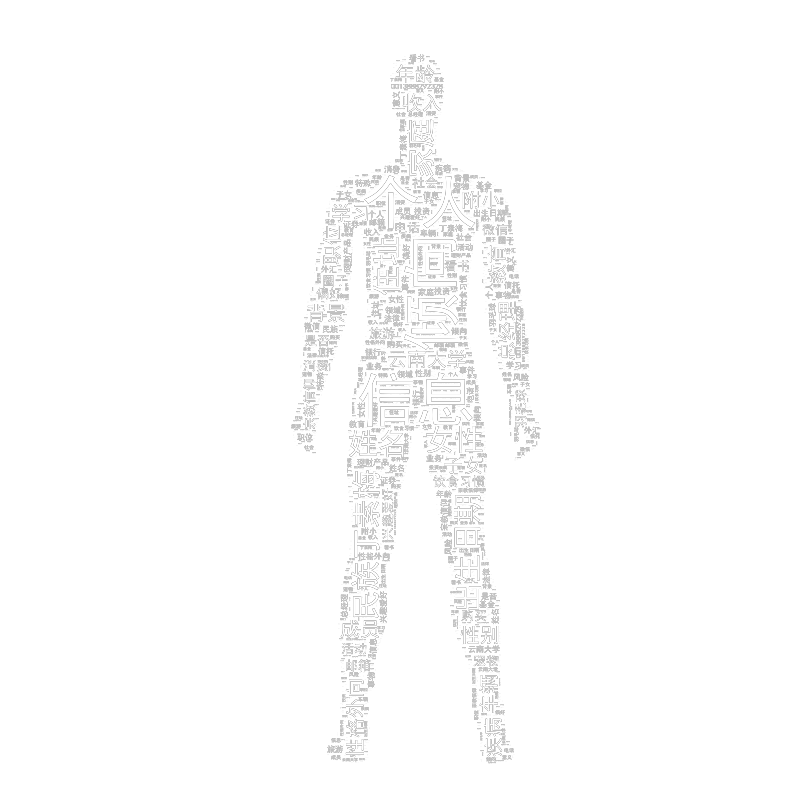
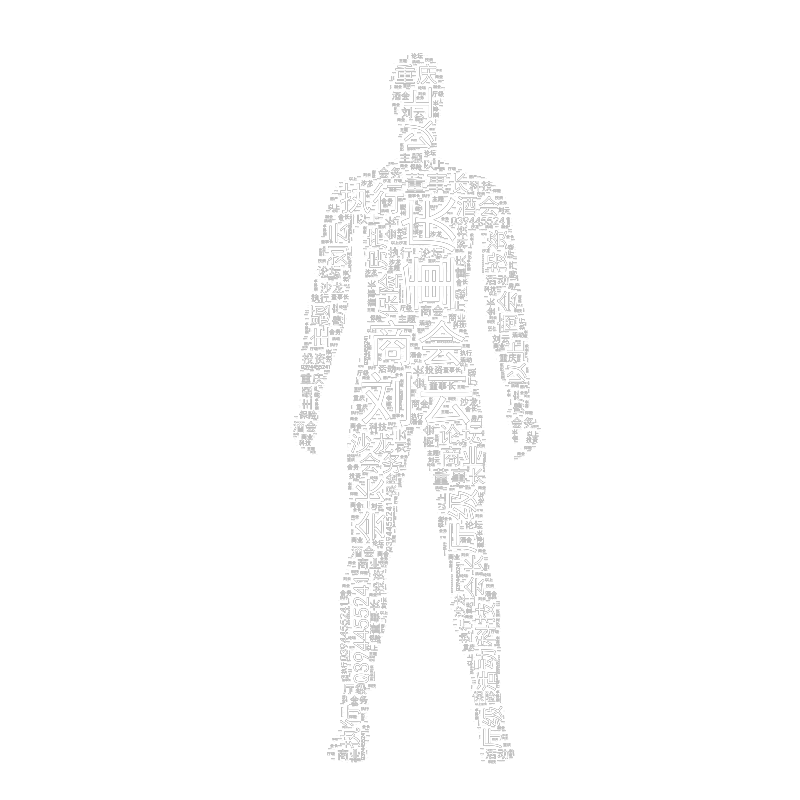
用户画像

Changed region(s): [[0.3438, 0.0625, 0.6875, 0.9688]]

diff --git a/messageDB.py b/messageDB.py
@@ -10,21 +10,56 @@ class message:
         self._db = db       # 私有属性
         self.charset = charset
 
-    def conn(self):
+    def conn(self, user_id):
         connection = pymysql.connect(host=self.host, user=self.user, password=self._password, db=self._db, charset=self.charset, cursorclass=pymysql.cursors.DictCursor)
+        values = ""
+
+        # 剔除无效值
+        value_Wipe = ['0', '1', '2', '3', '4', '5', '6', '7', '8', '9', '[]', None, '', '无', 1, 2]
 
         try:
             with connection.cursor() as cursor:
-                sql = "select `user_attribute_value`.`value` from `user_attribute_value` left join `user_attribute` on `user_attribute_value`.`user_attribute_id` = `user_attribute`.`id` where (`user_attribute_value`.`user_id` = '1' and `user_attribute`.`group` = 'user' and `user_attribute`.`status` = 1) order by `sort` asc"
-                cursor.execute(sql)
-                result = cursor.fetchall()
-                for item in result:
-                    print(item.values())
+                # 查询user信息
+                sql_user = "SELECT real_name, address_now, sex, detail_address FROM user WHERE user_id=%s"
+
+                # 查询user_attribute_value信息
+                sql_attribute = "select `user_attribute_value`.`value` from `user_attribute_value` left join `user_attribute` on `user_attribute_value`.`user_attribute_id` = `user_attribute`.`id` where (`user_attribute_value`.`user_id` =%s and `user_attribute`.`group` = 'user' and `user_attribute`.`status` = 1) order by `sort` asc"
+
+                if cursor.execute(sql_user, user_id) > 0:  # 查询成功
+
+                    for items in cursor.fetchall():
+
+                        for item in items:
+                           if items[item] not in value_Wipe:
+                               values += items[item]
+
+                        if items['sex'] == 1:
+                            sex_n = "男"
+                            values += sex_n
+                        elif items['sex'] == 2:
+                            sex_w = "女"
+                            values += sex_w
+
+                    if cursor.execute(sql_attribute, user_id) > 0:  # 执行查询操作
+                        resultst = cursor.fetchall()
+                        resultst.pop(-1)
+
+                        for item in resultst:  # 查询结果
+                             # 数据处理
+                             if item['value'] not in value_Wipe and (item['value'][0] != '[' and item['value'][-1] != ']'):
+                                 values += item['value'].strip()
+
+                    return values
+
+                else:
+
+                    return -1  # 没有用户返回-1
 
         finally:
             connection.close()
 
 
-mes = message('localhost', 'root', 'root', 'userdb', 'utf8mb4')
+# mess_text = message('localhost', 'root', 'root', 'userdb', 'utf8mb4').conn(user_id=3)  # 调用messageDB获取会员信息
 
-mes.conn()
+
+

diff --git a/maker_portrayal.py b/maker_portrayal.py
@@ -1,0 +1,28 @@
+from wordcloud import WordCloud, STOPWORDS, ImageColorGenerator
+import numpy as np
+from PIL import Image
+import matplotlib.pyplot as plt
+import jieba
+
+
+class maker_pl:
+
+    def maker_png(mess_text, user_id):
+        cut_text = jieba.cut(mess_text, cut_all=False)
+        result = " ".join(cut_text)
+
+        # 轮廓图片获取
+        mask = np.array(Image.open(r'./static/bottom_model.png'))
+
+        # #333943
+        word_cloud = WordCloud(font_path='simhei.ttf', background_color=None, max_words=2000, repeat=True, mask=mask,min_font_size=1, mode='RGBA')
+        # import ipdb;ipdb.set_trace()
+        word_cloud.generate(result)
+
+        backgroud_Image = plt.imread(r'./static/painting.jpg')
+        mg_colors = ImageColorGenerator(backgroud_Image)
+        word_cloud.recolor(color_func=mg_colors)
+        word_cloud.to_file(r'./static/user_img/user_id{0}.png'.format(user_id))
+
+
+

diff --git a/portrayal.py b/portrayal.py
@@ -1,17 +1,27 @@
 # -*-coding:utf-8 -*-
+from messageDB import message
+from maker_portrayal import maker_pl
+
 from flask import Flask, url_for
 
 app = Flask(__name__)
 
 
-@app.route('/')
-def index():
+@app.route('/user/<int:user_id>')
+def index(user_id):
 
+    mess_text = message('localhost', 'root', 'root', 'userdb', 'utf8mb4').conn(user_id)  # 调用messageDB获取会员信息
 
+    # 生成图片
+    maker_pl.maker_png(mess_text, user_id)
 
-    return url_for('static', filename='mask_wordcloud1.png')
+    return 'static/user_img/user_id%d.png' %user_id
 
+@app.errorhandler(404)
+def page_not_found(error):
+
+    return "没有此页面"
 
 
 if __name__ == "__main__":
-    app.run()
+    app.run(host='0.0.0.0', port='5000', debug=True)
